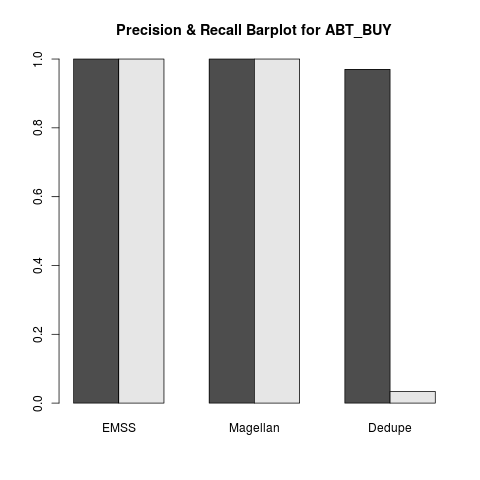
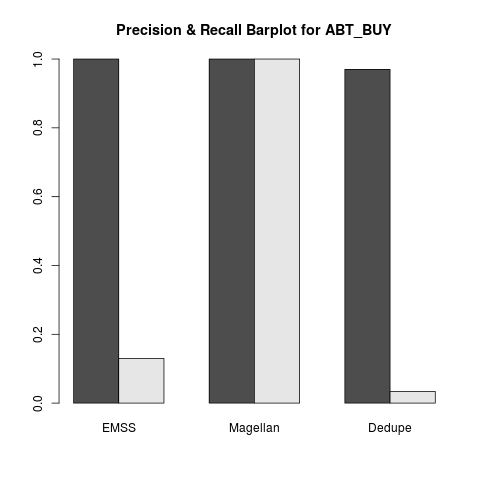
Updating figure.

Changed region(s): [[0.25, 0.0938, 0.3438, 0.75]]

diff --git a/src/active_magellan_buy_dataset.py b/src/active_magellan_buy_dataset.py
@@ -51,25 +51,21 @@ len(C)
 #S.to_csv(r'/datasets/buy_sell/S.csv',index=False)
 
 # Did some labeling magic offline here
-G = em.read_csv_metadata('/datasets/buy_sell/abtbuy_goldstandard.csv', 
+G = em.read_csv_metadata('/datasets/buy_sell/G_sampled.csv', 
                          key='_id',
                          ltable=A, rtable=B, 
                          fk_ltable='ltable_id', fk_rtable='rtable_id')
 print('Length is ' + str(len(G)))
 
 
-
-
-dt = em.DTMatcher(name='DecisionTree', random_state=0)
-svm = em.SVMMatcher(name='SVM', random_state=0, probability=True)
 rf = em.RFMatcher(name='RF', random_state=0)
-lg = em.LogRegMatcher(name='LogReg', random_state=0)
-ln = em.LinRegMatcher(name='LinReg')
-nb = em.NBMatcher(name='NaiveBayes')
-
 
 
 feature_table = em.get_features_for_matching(A, B, validate_inferred_attr_types=False)
+
+# Remove the id comparisons
+feature_table = feature_table.drop([0, 1, 2, 3], axis=0)
+
 H = em.extract_feature_vecs(G, 
                             feature_table=feature_table, 
                             attrs_after='gold',
@@ -153,11 +149,10 @@ em.print_eval_summary(eval_result)
 ############################## Magellan with RF ###############################
 ############################## Magellan with RF ###############################
 ############################## Magellan with RF ###############################
-IJ = em.split_train_test(G, train_proportion=0.01, random_state=0)
+IJ = em.split_train_test(G, train_proportion=0.001, random_state=0)
 I = IJ['train']
 J = IJ['test']
 
-J = em.split_train_test(G, train_proportion=0.01, random_state=0)
 
 
 result = em.select_matcher([rf], table=H, 

diff --git a/writeup/main.tex b/writeup/main.tex
@@ -152,15 +152,16 @@ This figure is a description of the F1 scores on the RESTAURANTS dataset. The ba
 \begin{figure}[H]
 \centering
 \includegraphics[width=3in]{figures/figure_2_barplot.png}
-\caption{Precision vs Recall Barplot}
+\caption{Precision vs Recall Barplot. Precision is on Left, Recall is on Right.}
 \label{fig:restaurants-png}
 \end{figure}
 
+Figure \ref{fig:restaurants-png} depicts the Precision vs Recall graph for EMSS, Magellan and Dedupe.io on the ABT\_BUY dataset. Base Magellan has some strange performance where it lists both Precision and Recall as 1. \\
 
 \noindent\fbox{
     \parbox{\columnwidth}{
     	\centering
-        \textit{EMSS is equivalent to Magellan on the ABT\_BUY dataset and is superior to Dedupe.io in terms of recall on low training samples. (n=20)}
+        \textit{EMSS outperforms Dedupe.io on the ABT\_BUY dataset when a low number of training samples are used. (n=20)}
     }
 }
 \\\\
